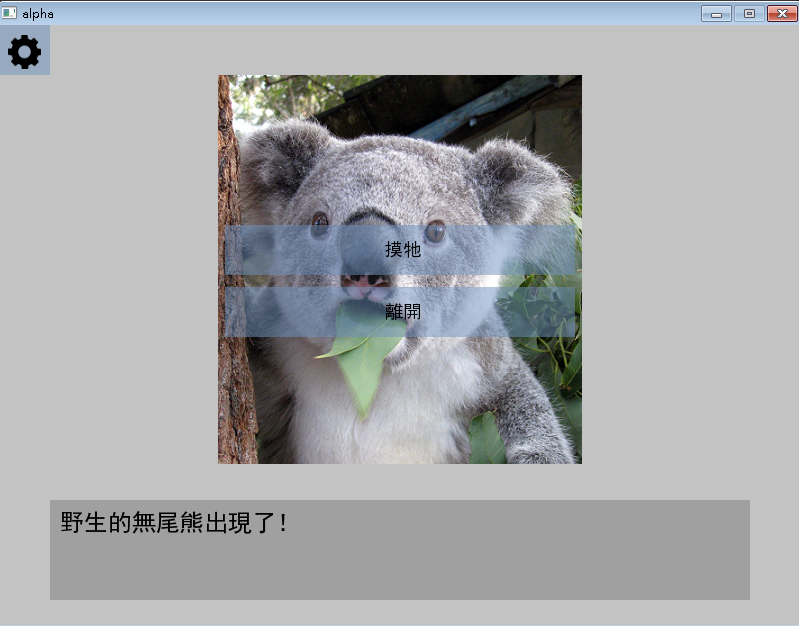
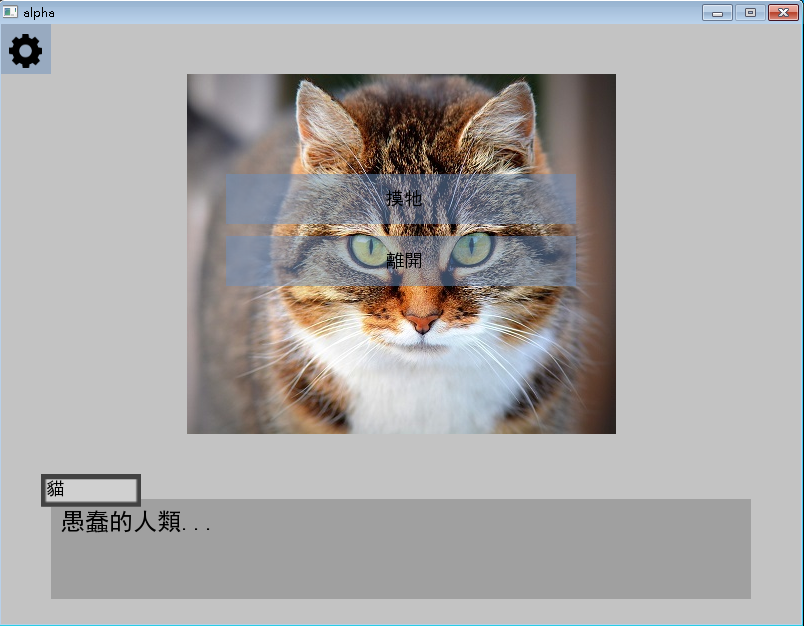
update

diff --git a/dialog.py b/dialog.py
@@ -8,24 +8,26 @@ class Dialog:
     '''
     tell the story to player
     content = content
-    font = font
     choi = choices
     image = image(mostly a character)
     pos = image position
     sf = sfx
     branch = next dialog according to the "san"
     bmg = if we need to play the sfx
+    talk = talker's name
+    bkimg = background
     '''
 
-    def __init__(self, ct, font, chi, im, po, sf, br):
+    def __init__(self, ct, chi, im, po, sf, br, na, bk):
         self.content = ct
-        self.font = font
         self.choi = chi
         self.image = im
         self.pos = po
         self.sf = sf
         self.branch = br
         self.bgm = False
+        self.talk = na
+        self.bkimg = bk
 
         '''
         following is experimental features
@@ -33,7 +35,7 @@ class Dialog:
 
         self.line = 0
         self.word = 0
-        self.prevtime = -1
+        self.prevtime = -100
 
     def playbgm(self, sfxlib, bgpl):
         if not self.bgm:
@@ -47,17 +49,17 @@ class Dialog:
                 bgpl.play()
         self.bgm = True
 
-    def showimg(self, screen, img, pos, imglib):
-        screen.blit(img, pos)
+    def showimg(self, screen, pos, imglib):
+        if self.bkimg != 'NONE':
+            screen.blit(imglib[self.bkimg], (0, 0))
+        screen.blit(imglib['di'], pos)
         cnt = 1
         for ig in self.image:
             if ig in imglib:
                 screen.blit(imglib[ig], (200*cnt-imglib[ig].get_width()/2, 50))
             cnt += 1
 
-    def showtext(self, screen, pos, tick):
-        if self.prevtime == -1:
-            self.prevtime = tick-100
+    def showtext(self, screen, pos, tick, imglib, font):
         if self.line < len(self.content) and tick-self.prevtime >= 100:
             self.word += 1
             self.prevtime = tick
@@ -69,17 +71,21 @@ class Dialog:
         while x <= self.line:
             if x < len(self.content):
                 if x < self.line:
-                    text_surface = self.font.render(self.content[x], True, (0, 0, 0))
+                    text_surface = font[0].render(self.content[x], True, (0, 0, 0))
                 else:
-                    text_surface = self.font.render(self.content[x][:self.word], True, (0, 0, 0))
+                    text_surface = font[0].render(self.content[x][:self.word], True, (0, 0, 0))
                 screen.blit(text_surface, (pos[0] + 10, pos[1] + dy))
                 dy += 25
             x += 1
+        if self.talk != 'NONE':
+            screen.blit(imglib['name'], (pos[0]-10, pos[1]-25))
+            text_surface = font[1].render(self.talk, True, (0, 0, 0))
+            screen.blit(text_surface, (pos[0]-5, pos[1]-20))
 
-    def blit(self, screen, pos, img, imglib, sfxlib, bgpl, tick):
+    def blit(self, screen, pos, imglib, sfxlib, bgpl, tick, font):
         self.playbgm(sfxlib, bgpl)
-        self.showimg(screen, img, pos, imglib)
-        self.showtext(screen, pos, tick)
+        self.showimg(screen, pos, imglib)
+        self.showtext(screen, pos, tick, imglib, font)
 
     def blitimg(self, screen, imglib):
         '''
@@ -113,7 +119,7 @@ class Dialog:
         self.bgm = False
         self.word = 0
         self.line = 0
-        self.prevtime = -1
+        self.prevtime = -100
 
     def check(self):
         if self.line != len(self.content):

diff --git a/main.py b/main.py
@@ -28,6 +28,7 @@ def main():
     init pygame
     '''
     pygame.init()
+    pygame.font.init()
     screen = pygame.display.set_mode((800, 600), 0, 32)
     pygame.display.set_caption('alpha')
 
@@ -61,13 +62,14 @@ def main():
     '''
     setup fonts
     '''
-    font18 = pygame.font.SysFont('simhei', 18)
-    font24 = pygame.font.SysFont('simhei', 24)
+    ft18 = pygame.font.SysFont('simhei', 18)
+    ft24 = pygame.font.SysFont('simhei', 24)
+    ftpk = (ft24, ft18)
 
     '''
     setup settings with the font
     '''
-    setting = Settings(font18)
+    setting = Settings(ft18)
 
     '''
     load and setup choice and dialog library
@@ -113,12 +115,12 @@ def main():
             if ne[0] == -1:
                 break
             elif ne[0] == 0:
-                dialoglib[ne[7]] = (Dialog(ne[1], font24, ne[2], ne[3], ne[4], ne[5], ne[6]))
+                dialoglib[ne[7]] = (Dialog(ne[1], ne[2], ne[3], ne[4], ne[5], ne[6], ne[8], ne[9]))
                 #__init__(self, ct, font, chi, im, po, sf, br)
             elif ne[0] == 1:
                 cc = []
                 for chi in ne[1]:
-                    cc.append(Choice(chi[0], font18, chi[1], chi[2], chi[3]))
+                    cc.append(Choice(chi[0], ft18, chi[1], chi[2], chi[3]))
                     #__init__(self, ct, font, ino, val, wei)
                 choicelib[ne[2]] = cc
 
@@ -135,11 +137,11 @@ def main():
             if ne[0] == -1:
                 break
             elif ne[0] == 0:
-                dialoglib[ne[7]] = (Dialog(ne[1], font24, ne[2], ne[3], ne[4], ne[5], ne[6]))
+                dialoglib[ne[7]] = (Dialog(ne[1], ne[2], ne[3], ne[4], ne[5], ne[6], ne[8], ne[9]))
             elif ne[0] == 1:
                 cc = []
                 for chi in ne[1]:
-                    cc.append(Choice(chi[0], font18, chi[1], chi[2], chi[3]))
+                    cc.append(Choice(chi[0], ft18, chi[1], chi[2], chi[3]))
                 print ne, ne[2]
                 choicelib[ne[2]] = cc
 
@@ -229,7 +231,7 @@ def main():
         not a image-only mode
         '''
         if not vimg:
-            dialoglib[dpos].blit(screen, whe(dialoglib[dpos].wh()), imglib['di'], imglib, sfxlib, sfplayer, pygame.time.get_ticks())
+            dialoglib[dpos].blit(screen, whe(dialoglib[dpos].wh()), imglib, sfxlib, sfplayer, pygame.time.get_ticks(), ftpk)
             cpos = dialoglib[dpos].ask()
             if cpos != '-1' and len(choicelib[cpos]) > 0:
                 for c in choicelib[cpos]:
@@ -256,7 +258,6 @@ def main():
             dialoglib[dpos].reset()
             dpos = choicelib[cpos][pick].to()
             san += choicelib[cpos][pick].w()
-            #choicelib[cpos] = []
             cpos = -1
             pick = -1
 

diff --git a/text.py b/text.py
@@ -53,9 +53,13 @@ class Text:
                 choi = choice tag
                 wh = dialog position
                 im = dialog image
+                na = talker's name
+                bk = background
                 '''
                 s = []
                 t, name = self.content[self.pos].strip().split(' ')
+                self.pos += 1
+                na = self.content[self.pos]
                 self.pos += 1
                 sfx = str(self.content[self.pos])
                 self.pos += 1
@@ -66,6 +70,8 @@ class Text:
                 wh = long(self.content[self.pos])
                 self.pos += 1
                 im = self.content[self.pos].strip().split(' ')
+                self.pos += 1
+                bk = self.content[self.pos]
                 self.pos += 1
 
                 '''
@@ -80,7 +86,7 @@ class Text:
                 '''
                 create a dialog
                 '''
-                n = (0, s, choi, im, wh, sfx, (long(poi), fi, se), name)
+                n = (0, s, choi, im, wh, sfx, (long(poi), fi, se), name, na, bk)
 
                 # (type, content, ask, image, where, sfx, (beanch), name)
 

diff --git a/choice.py b/choice.py
@@ -41,4 +41,4 @@ def cgetpos(i):
     '''
     get position of the ith choice
     '''
-    return (225, 200 + i * 62.5)
+    return (225, 150 + i * 62.5)

diff --git a/README.md b/README.md
@@ -4,11 +4,13 @@
 ###dia.txt
 ```
   dialog (name)
+  (talker's name)
   <bgm>
-  <branch point>if san bigger than or equal to point(dialog name | -1 = None, -2 = Exit)(dialog name)
+  <branch point>if san greater than or equal to point(dialog name | -1 = None, -2 = Exit)(dialog name)
   (choice name | -1 = None)
   (position)
   (img)
+  (background)
   <content>
   ...
   end
